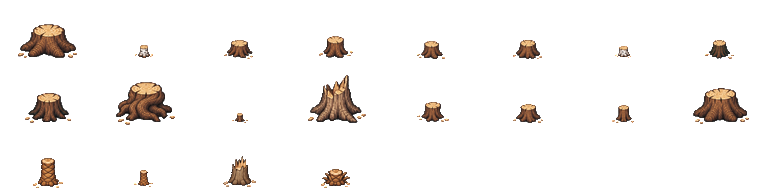
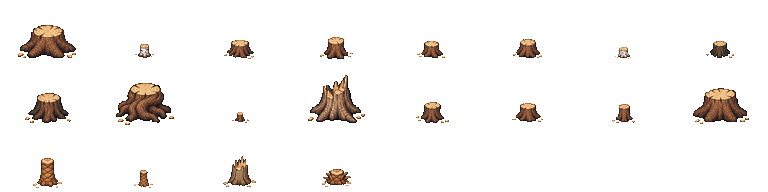
art(palms, stumps): strip the white halo the background key left round them
The palms and stumps were cut from ChatGPT drawings on white by flooding the
background off (make_new_windows.key_white), which kept the anti-aliased rim:
pixels of outline blended with white, fully opaque, that showed as pale
specks round every frond once set on grass.

key_white(clean=True) now runs defringe() on the full-size cut-out, before it
is scaled down: each rim pixel reached from the cleared background through
other blended pixels is measured against its least-white neighbour; half or
more background and it is cleared, less and the white is un-mixed out of it.
Pixels off that blend line (snow on a grey ground, a pale chip walled by its
outline) are kept. The palms and palm stumps also key small enclosed white
pockets between fronds (holes=2); the tree stumps don't (birch bark is white).

Rebuilt palm_trees.png and stumps_<season>.png from the same sources; same
sheet layout and cell sizes, no data changes. The drawn trees, bushes and
rocks come from sources with real alpha and have no halo, so are unchanged.

Claude-Session: https://claude.ai/code/session_015H8bBwBoYmHtzQn6aSaAEB

diff --git a/scripts/make_new_windows.py b/scripts/make_new_windows.py
@@ -35,10 +35,71 @@ C = 128          # a cell at 4x
 WIDTH = 124      # a window's width in its cell
 
 
-def key_white(im, tol=28, holes=False):
+def defringe(im, bg, ring=2, reach=2, passes=2):
+    """Clean the rim a background key leaves: the drawing's edge pixels are its outline blended
+    with the background (a pale halo once set on grass). For each opaque pixel within `ring` px of
+    the cleared background, take the colour it was blended from: the neighbour (within `reach`
+    px) least like the background, often the dark outline. If the pixel lies on the line between
+    that colour and the background, it is that much background: half or more and it is cleared,
+    less and the background is un-mixed out of it, colour = (c - t*bg) / (1 - t). A pixel off that
+    line (snow lighter than a grey background, a coloured highlight) is its own colour and kept,
+    as is anything whose neighbours are all as pale as the background (no telling them apart).
+    Run before scaling down, so the resample has no white to blend back in."""
+    a = np.array(im.convert('RGBA')).astype(np.float32)
+    w = np.asarray(bg, np.float32)[:3]
+    H, W = a.shape[:2]
+    for _ in range(passes):
+        rgb, al = a[..., :3], a[..., 3]
+        solid = al > 0
+        rim = solid & (ndimage.distance_transform_edt(solid) <= ring)
+        if not rim.any():
+            break
+        # the most un-background-like opaque neighbour of each pixel, and its colour
+        score = np.where(solid, np.abs(rgb - w).max(axis=2), -1.0)
+        best = np.full((H, W), -1.0, np.float32)
+        f = np.zeros_like(rgb)
+        P = np.pad(score, reach, constant_values=-1.0)
+        C = np.pad(rgb, ((reach, reach), (reach, reach), (0, 0)))
+        for dy in range(-reach, reach + 1):
+            for dx in range(-reach, reach + 1):
+                if dy * dy + dx * dx > reach * reach + 1:
+                    continue
+                s = P[reach + dy:reach + dy + H, reach + dx:reach + dx + W]
+                better = s > best
+                best[better] = s[better]
+                f[better] = C[reach + dy:reach + dy + H, reach + dx:reach + dx + W][better]
+        fw = w - f
+        den = (fw ** 2).sum(axis=2)
+        t = ((rgb - f) * fw).sum(axis=2) / np.maximum(den, 1.0)
+        off = np.sqrt((((rgb - f) - t[..., None] * fw) ** 2).sum(axis=2) / 3.0)   # RMS off the line
+        mixed = rim & (best >= 60) & (t > 0.04) & (t <= 1.05) & (off <= 24)
+        # only the blend outside the outline: reached from the cleared background through
+        # other blended pixels (a pale chip's inside, walled by its outline, is its own colour)
+        mixed = ndimage.binary_propagation(mixed & ndimage.binary_dilation(~solid, np.ones((3, 3))),
+                                           structure=np.ones((3, 3)), mask=mixed)
+        drop = mixed & (t >= 0.5)
+        # un-mix only the new outermost pixels (deeper in, un-mixing a pale highlight would
+        # only over-saturate it)
+        left = solid & ~drop
+        fix = mixed & left & ndimage.binary_dilation(~left, np.ones((3, 3)))
+        tt = t[..., None]
+        un = (rgb - tt * w) / np.maximum(1.0 - tt, 1e-3)
+        rgb[fix] = np.clip(un[fix], 0, 255)
+        al[drop] = 0
+        rgb[drop] = 0
+        if not drop.any() and not fix.any():
+            break
+    return Image.fromarray(a.round().clip(0, 255).astype(np.uint8), 'RGBA')
+
+
+def key_white(im, tol=28, holes=False, clean=False):
     """Flood the flat background away from the borders (ChatGPT gives white, not alpha);
     holes: also any patch of background shut inside a drawing (a door frame's opening), of
-    more than 400 px, or of more than `holes` px when it is a number."""
+    more than 400 px, or of more than `holes` px when it is a number. clean: also strip the
+    pale halo the key leaves round the drawing (defringe)."""
+    if clean:
+        bg = np.array(im.convert('RGBA'))[0, 0, :3]
+        return defringe(key_white(im, tol, holes), bg)
     a = np.array(im.convert('RGBA')).astype(np.int16)
     bg = a[0, 0, :3]
     near = (np.abs(a[..., :3] - bg).max(axis=2) <= tol)

diff --git a/scripts/make_stump_sheet.py b/scripts/make_stump_sheet.py
@@ -188,9 +188,9 @@ def main():
     # the tree sheet (starting from the tree's own scale, which ChatGPT drew them at)
     scales0 = tree_scales()
     bases = tree_bases()
-    plain = grid_cells(key_white(Image.open(os.path.join(NEW, 'stumps_source.png'))), N, N)
-    snowy = grid_cells(key_white(Image.open(os.path.join(NEW, 'stumps_winter_source.png'))), N, N)
-    palms = grid_cells(key_white(Image.open(os.path.join(NEW, 'palm_stumps_source.png'))), 4, 1)
+    plain = grid_cells(key_white(Image.open(os.path.join(NEW, 'stumps_source.png')), clean=True), N, N)
+    snowy = grid_cells(key_white(Image.open(os.path.join(NEW, 'stumps_winter_source.png')), clean=True), N, N)
+    palms = grid_cells(key_white(Image.open(os.path.join(NEW, 'palm_stumps_source.png')), holes=2, clean=True), 4, 1)
     # ChatGPT drew the palm stumps bigger than the palms: one scale for the four, the
     # tall palm's stump as wide as a tall palm's foot on the palm sheet
     palm0 = PALM_FOOT / (palms[0][1][2] - palms[0][1][0] + 1)

diff --git a/scripts/make_new_palms.py b/scripts/make_new_palms.py
@@ -28,7 +28,7 @@ SCALE = 0.34   # as the drawn trees (scripts/make_tree_sheet.py)
 
 
 def main():
-    palms = objects(key_white(Image.open('assets/lpc/new/palms_source.png')))
+    palms = objects(key_white(Image.open('assets/lpc/new/palms_source.png'), holes=2, clean=True))
     if len(palms) != 18:
         raise SystemExit(f'found {len(palms)} palms, want 18')
     P.SCALE = min([SCALE] + [min((P.CELL_W - 2) / p.width, (P.CELL_H - 8) / p.height) for p in palms])
